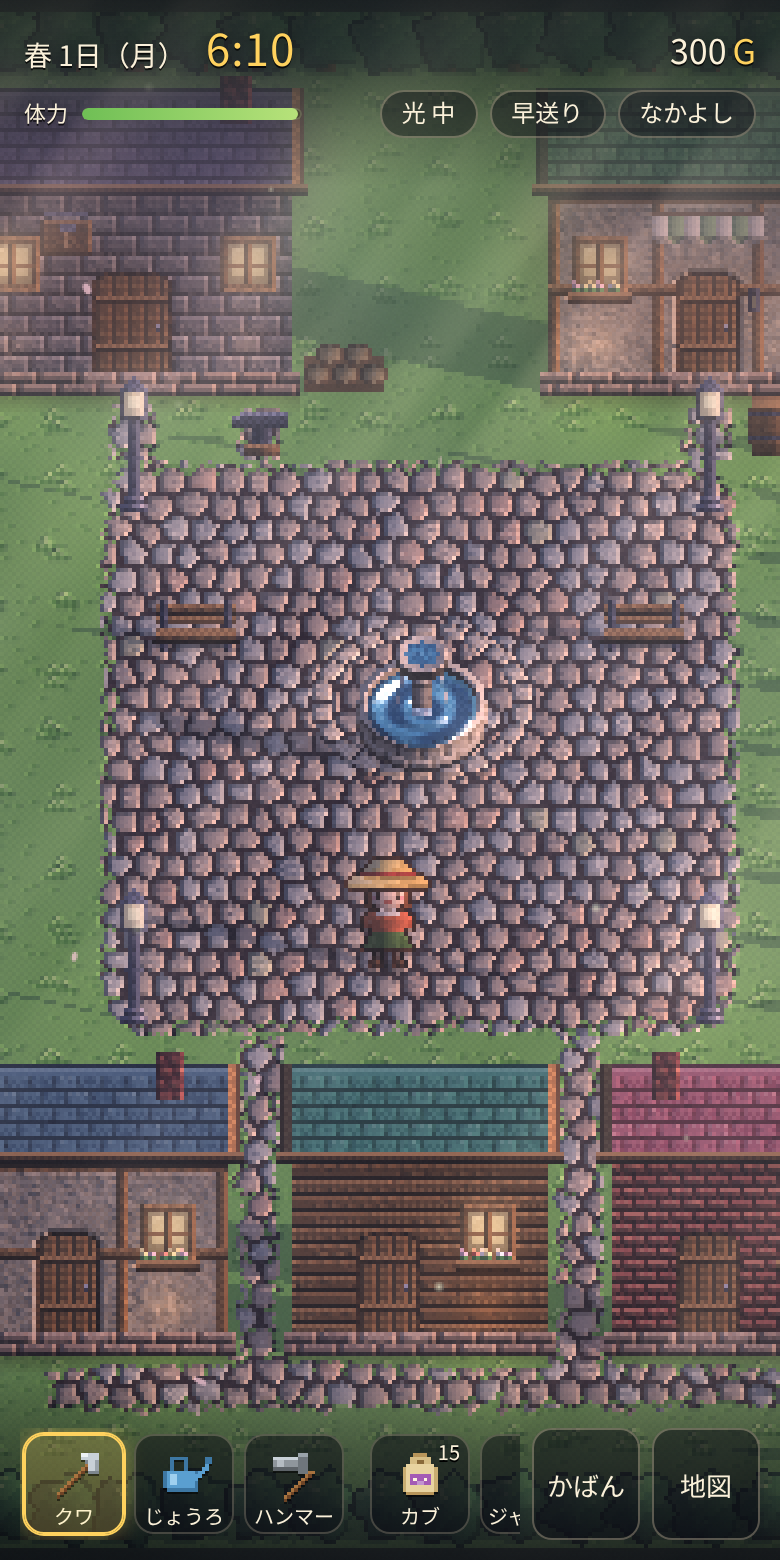
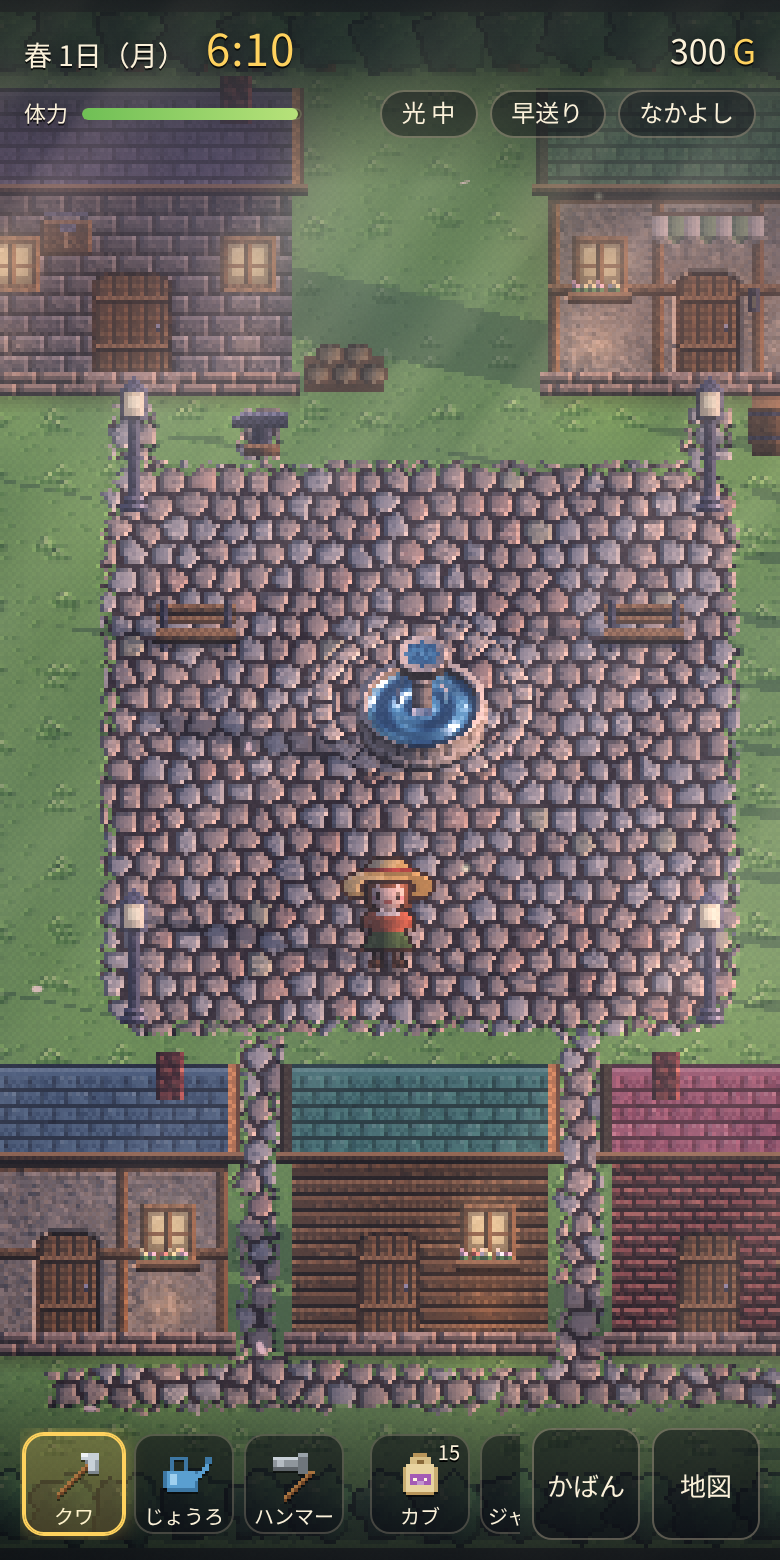
麦わら帽子のつばをアーチに：外へたれて少しうしろに傾く・前と横で目が見える高さを計算
Claude-Session: https://claude.ai/code/session_015wi4GiDohPeUmRqmvNTxLm

Changed region(s): [[0.4615, 0.4308, 0.6154, 0.4923], [0.4308, 0.5538, 0.5538, 0.5846]]

diff --git a/index.html b/index.html
@@ -296,12 +296,12 @@ const CHARS={
     legs:[[".......oso......",".......oSo......",".......offFo....",".......ooooo...."],["......oso.oso...",".....oso...oSo..",".....offo..offFo",".....oooo..ooooo"],["......oSo.oso...",".....oso...oso..",".....offo..offFo",".....oooo..ooooo"]]},
   },
   // 着せかえの部品：絵の枠（横24×たて36・体のまわりに横4・上4のゆとり）に y 段目から重ねる。'.' はすける。c＝ふくらみの丸 [x,y,半径]
-  // 麦わら帽子は tools/hat3d.py で立体から計算したドット（ふくらみは頭を少しふくらませた形・つばは水平でふちがたれる・人と同じ真正面から見る）
+  // 麦わら帽子は tools/hat3d.py で立体から計算したドット（ふくらみは頭に沿う形・つばは外へたれて少しうしろに傾く＝前から見るとアーチ・人と同じ真正面から見る）
   items:{
    straw:{name:"麦わら帽子",views:{
-    front:{y:8,c:[12.0,  15.2,  7.1],rows:["........oooooooo........",".......ouuqqqqqQo.......","......ouuuqqqqqQQo......",".....ouuqqqqqQQQQQo.....","...oobbbbbbbbbBBBBBoo...","..ovvvHHHHjjjjjjjjjHHo..",".ovvvvvvhhhhhhhHHHHHHHo.",".ohhhhhhhhhHHHHHHjjjjjo.","..oooooooooooooooooooo.."]},
-    back:{y:8,c:[12.0,  15.2,  7.1],rows:["........oooooooo........",".......ouuqqqqqQo.......","......ouuuqqqqqQQo......",".....ouuqqqqqQQQQQo.....","...oobbbbbbbBbBBBBBoo...","..ovvHHHHHjjbBjjjjjHHo..",".ovvvvvvhhhhbBhHHHHHHHo.",".ohhhhhhhhhHbBHHHHHHHjo.","..oooooooooobBoooooooo..","............oBo.........",".............o.........."]},
-    side:{y:8,c:[12.0,  15.2,  7.1],rows:["........oooooooo........",".......ouuqqqqqQo.......","......ouuuqqqqqQQo......",".....ouuqqqqqQQQQQo.....","...ooBbbbbbbbbBBBBBoo...","..ovvbBHHHjjjjjjjjjHHo..",".ovvbBvvhhhhhhhHHHHHHHo.",".ohhbBhhhhhHHHHHHHjHHjo.","..oobBoooooooooooooooo..","....oBo.................",".....o.................."]},
+    front:{y:8,c:[12.0,  15.2,  7.1],rows:["........oooooooo........",".......ouuuqqqqQo.......","......ouuuqqqqQQQo......","....oobbbbbbbbbBBBoo....","..oovvHHHHHjjjjjjjHHoo..",".ovhhhhhhhhHHHHHHjjjjHo.","ohhhhhoooooooooooojjjjjo","ohhhho............ojjjjo","ohhhho............ojjjjo",".oHHHjo..........ojjjjo.","..oooo............oooo.."]},
+    back:{y:8,c:[12.0,  15.2,  7.1],rows:["........oooooooo........",".......ouuuqqqqQo.......","......ouuuqqqqqQQo......","....oouuqqqqqqQQQQoo....","..oovbbbqqqqQQQQBBBhoo..",".ovvvbbbbbbbBBBBBBHhHHo.","ovvvvhhhHHHHbBHHHHHHHHHo","ovvvvvhhhhhhbBhHHHHHHHjo","ohhhhhhhhhhhbBHHHHHjjjjo",".ohhhHHHhHHjbBjjjjjjjjo.","..ooooooHHHjjBjjoooooo..","........oooooooo........"]},
+    side:{y:8,c:[12.0,  15.2,  7.1],rows:[".........ooooooo........",".......oouuqqqqQoo......","......ouuuqqqqQQQQo.....",".....ouuuqqqqbbBBBBoooo.","....ouubbbbbbbHHHHHhhjjo","...oBbbbhhhHHHhhhhjjjjjo","..ovbBhhvvhhhhhHjjjjjoo.",".ovbBvvvHHHHHHHHjjooo...","ovvbBhhHHHHHHHoooo......","ohhbBhhHoooooo..........","ohhoBooo................",".oo.o..................."]},
    }},
   },
  },

diff --git a/src/data/chars.js b/src/data/chars.js
@@ -16,12 +16,12 @@ const CHARS={
     legs:[[".......oso......",".......oSo......",".......offFo....",".......ooooo...."],["......oso.oso...",".....oso...oSo..",".....offo..offFo",".....oooo..ooooo"],["......oSo.oso...",".....oso...oso..",".....offo..offFo",".....oooo..ooooo"]]},
   },
   // 着せかえの部品：絵の枠（横24×たて36・体のまわりに横4・上4のゆとり）に y 段目から重ねる。'.' はすける。c＝ふくらみの丸 [x,y,半径]
-  // 麦わら帽子は tools/hat3d.py で立体から計算したドット（ふくらみは頭を少しふくらませた形・つばは水平でふちがたれる・人と同じ真正面から見る）
+  // 麦わら帽子は tools/hat3d.py で立体から計算したドット（ふくらみは頭に沿う形・つばは外へたれて少しうしろに傾く＝前から見るとアーチ・人と同じ真正面から見る）
   items:{
    straw:{name:"麦わら帽子",views:{
-    front:{y:8,c:[12.0,  15.2,  7.1],rows:["........oooooooo........",".......ouuqqqqqQo.......","......ouuuqqqqqQQo......",".....ouuqqqqqQQQQQo.....","...oobbbbbbbbbBBBBBoo...","..ovvvHHHHjjjjjjjjjHHo..",".ovvvvvvhhhhhhhHHHHHHHo.",".ohhhhhhhhhHHHHHHjjjjjo.","..oooooooooooooooooooo.."]},
-    back:{y:8,c:[12.0,  15.2,  7.1],rows:["........oooooooo........",".......ouuqqqqqQo.......","......ouuuqqqqqQQo......",".....ouuqqqqqQQQQQo.....","...oobbbbbbbBbBBBBBoo...","..ovvHHHHHjjbBjjjjjHHo..",".ovvvvvvhhhhbBhHHHHHHHo.",".ohhhhhhhhhHbBHHHHHHHjo.","..oooooooooobBoooooooo..","............oBo.........",".............o.........."]},
-    side:{y:8,c:[12.0,  15.2,  7.1],rows:["........oooooooo........",".......ouuqqqqqQo.......","......ouuuqqqqqQQo......",".....ouuqqqqqQQQQQo.....","...ooBbbbbbbbbBBBBBoo...","..ovvbBHHHjjjjjjjjjHHo..",".ovvbBvvhhhhhhhHHHHHHHo.",".ohhbBhhhhhHHHHHHHjHHjo.","..oobBoooooooooooooooo..","....oBo.................",".....o.................."]},
+    front:{y:8,c:[12.0,  15.2,  7.1],rows:["........oooooooo........",".......ouuuqqqqQo.......","......ouuuqqqqQQQo......","....oobbbbbbbbbBBBoo....","..oovvHHHHHjjjjjjjHHoo..",".ovhhhhhhhhHHHHHHjjjjHo.","ohhhhhoooooooooooojjjjjo","ohhhho............ojjjjo","ohhhho............ojjjjo",".oHHHjo..........ojjjjo.","..oooo............oooo.."]},
+    back:{y:8,c:[12.0,  15.2,  7.1],rows:["........oooooooo........",".......ouuuqqqqQo.......","......ouuuqqqqqQQo......","....oouuqqqqqqQQQQoo....","..oovbbbqqqqQQQQBBBhoo..",".ovvvbbbbbbbBBBBBBHhHHo.","ovvvvhhhHHHHbBHHHHHHHHHo","ovvvvvhhhhhhbBhHHHHHHHjo","ohhhhhhhhhhhbBHHHHHjjjjo",".ohhhHHHhHHjbBjjjjjjjjo.","..ooooooHHHjjBjjoooooo..","........oooooooo........"]},
+    side:{y:8,c:[12.0,  15.2,  7.1],rows:[".........ooooooo........",".......oouuqqqqQoo......","......ouuuqqqqQQQQo.....",".....ouuuqqqqbbBBBBoooo.","....ouubbbbbbbHHHHHhhjjo","...oBbbbhhhHHHhhhhjjjjjo","..ovbBhhvvhhhhhHjjjjjoo.",".ovbBvvvHHHHHHHHjjooo...","ovvbBhhHHHHHHHoooo......","ohhbBhhHoooooo..........","ohhoBooo................",".oo.o..................."]},
    }},
   },
  },

diff --git a/tools/hat3d.py b/tools/hat3d.py
@@ -1,78 +1,118 @@
 # 麦わら帽子を立体で作って、向きごとにドットにする
 #   python3 tools/hat3d.py → hat3d.json → src/data/chars.js の items.straw へ
-# 考え方：ふくらみは「頭を少しだけふくらませた形」（頭と同じ中心のだ円体）。つばは水平の輪で、ふちが少したれる
-#   頭の絵（主人公の前向き）から決まる数字：頭の中心・髪のてっぺん・目の高さ。ほかは計算で決める
-import math,json,sys
+# 考え方（しょーくんの決まり）
+#   ・人は真正面から描いているので、帽子も真正面から見る（上から見下ろさない）
+#   ・ふくらみは「頭を少しだけふくらませた形」（頭と同じ中心のだ円体）で、頭に沿う
+#   ・つばは外へいくほどたれ、帽子は少しうしろに傾けてかぶる → 前から見ると、つばが顔をかこむアーチ（⌒）になる
+#   ・帽子のうしろ側が頭のかげにかくれる所は描かない（頭を立体でおいて、手前・奥をくらべる）
+#   頭の絵（主人公の前向き）から決まる数字：頭の中心・髪のてっぺん・目の高さ。つばの高さとふくらみの高さは計算で決める
+import math,json
 W,H=24,36                # 人の絵の枠（体16×32のまわりに横4・上4のゆとり）
 P=dict(
   CX=12.0,CY=15.2,       # 頭の中心（枠の中の位置）
+  HEAD=(6.3,6.0,5.8),    # 頭の半径（横・奥・たて）。帽子のうしろ側をかくすのに使う
   AH=7.1,                # ふくらみの横・奥の半径（頭の半分の幅＋ふちの厚み）
   TOP=9.3,               # ふくらみのてっぺんの高さ（髪のてっぺんの線にぴったり＝帽子の線は髪の1つ上）
-  LOW=15.95,             # つばのいちばん下が来る高さ（線は16段目＝目のすぐ上。目は17段目）
-  R=9.95,                # つばの外の半径（枠の幅いっぱい・ふくらみの約1.5倍）
-  DROOP=1.4,             # つばのふちのたれ
-  T=0.8,                 # つばの厚み（真正面から見ると、つばは厚みとたれの帯に見える）
-  ELEV=0,                # 見る角度（度）。人は真正面から描いているので、帽子も真正面（0度）から見る
+  LOW=15.95,             # 顔の前で、つばのいちばん下が来る高さ（線は16段目＝目のすぐ上。目は17段目）。前と横の両方で守る
+  FACE=3.5,              # 前向きで、顔の前とみなす幅（中心から左右）
+  SIDEFACE=(1.0,5.5),    # 横向きで、顔の前とみなす幅（中心から前へ。目は中心の3つ前）
+  R=10.9,                # つばの外の半径（枠の幅いっぱい）
+  DROOP=2.0,             # つばのたれ（外へいくほど強く）
+  T=0.8,                 # つばのふちの厚み
+  TILT=10,               # うしろへの傾き（度）。前のつばが上がり、横と後ろが下がる
+  FRONT=0.4,             # 前のつばのたれの割合（1＝まわりと同じ）。前だけ少なくして、つばが顔をかこむアーチ（⌒）に
   BAND=1.4,              # リボンの幅
 )
 def make(**kw):
-    p=dict(P,**kw);CX,CY,AH,R,D=p['CX'],p['CY'],p['AH'],p['R'],p['DROOP']
-    E=math.radians(p['ELEV']);sE,cE=math.sin(E),math.cos(E)
-    # てっぺんの高さから、ふくらみの縦の半径を計算（だ円体を斜め上から見たときの上の端）
-    CH=math.sqrt(max(1,((CY-p['TOP'])**2-(AH*sE)**2)/cE**2))
-    # つばのいちばん下（手前のふちの下）が LOW に来るように、つばの高さ（頭の中心から）を計算
-    T=p['T'];Z0=D+T+(CY+R*sE-p['LOW'])/cE
-    RC=AH*math.sqrt(max(0,1-(Z0/CH)**2))     # つばとふくらみのさかいめの半径
-    V=(0,cE,sE)
+    p=dict(P,**kw);CX,CY,AH,R,D,T=p['CX'],p['CY'],p['AH'],p['R'],p['DROOP'],p['T']
+    th=math.radians(p['TILT']);sT,cT=math.sin(th),math.cos(th)
+    # ふくらみのたての半径：傾けたときのいちばん上が TOP に来るように
+    CH=math.sqrt(max(1,((CY-p['TOP'])**2-(AH*sT)**2)/cT**2))
+    # つばの高さ：顔の前（横 FACE まで）のつばのふちの下が LOW に来るように
+    def dr(su):return D*(1-(1-p['FRONT'])*max(0,su)**2)   # 向きごとのたれ（su＝前むきの度合い）
     Lv=(-.55,.25,.8);ll=math.sqrt(sum(a*a for a in Lv));Lv=tuple(a/ll for a in Lv)  # 光は左上手前
     def norm(v):l=math.sqrt(sum(a*a for a in v)) or 1;return tuple(a/l for a in v)
-    def turn(p,face):
-        x,y,z=p
+    def tilt(q):x,y,z=q;return(x,y*cT-z*sT,z*cT+y*sT)    # 前（+y）を上げる
+    def turn(q,face):
+        x,y,z=q
         if face=='back':return(-x,-y,z)
         if face=='side':return(y,-x,z)       # 顔を東（右）へ
         return(x,y,z)
-    def scr(q):return CX+q[0],CY+q[1]*sE-q[2]*cE,q[1]*cE+q[2]*sE
+    def scr(q):return CX+q[0],CY-q[2],q[1]   # 真正面から見る：横・たて・手前
+    hx,hy,hz=p['HEAD']
+    def hidden(Q,face):                      # 頭のうしろにかくれる点か
+        a,b=(hy,hx) if face=='side' else (hx,hy);e=1-(Q[0]/a)**2-(Q[2]/hz)**2
+        return e>0 and Q[1]<b*math.sqrt(e)
+    def lowest(Z0,face,X0,X1):               # 顔の前（横 X0〜X1）で見えるつばのいちばん下
+        rc=AH*math.sqrt(max(0,1-(Z0/CH)**2));m=-99;r=rc
+        while r<=R+1e-9:
+            t=(r-rc)/(R-rc);n=int(2*math.pi*r/0.3)+1
+            for i in range(n):
+                u=2*math.pi*i/n;z=Z0-dr(math.sin(u))*t*t-(T if r>R-0.2 else 0)
+                Q=turn(tilt((r*math.cos(u),r*math.sin(u),z)),face)
+                if X0<=Q[0]<=X1 and not hidden(Q,face):m=max(m,CY-Q[2])
+            r+=0.25
+        return m
+    # つばの高さ：前と横の両方で、顔の前のつばのいちばん下が LOW に来るように（いちばん下がる所で合わせる）
+    F=p['FACE'];lo,hi=-2.0,CH-0.5
+    for _ in range(22):
+        Z0=(lo+hi)/2
+        if max(lowest(Z0,'front',-F,F),lowest(Z0,'side',*p['SIDEFACE']))>p['LOW']:lo=Z0
+        else:hi=Z0
+    Z0=hi
+    RC=AH*math.sqrt(max(0,1-(Z0/CH)**2))     # つばとふくらみのさかいめの半径
     def render(face):
         buf={}
-        def plot(q,n,kind):
-            Q=turn(q,face);N=norm(turn(n,face));xs,ys,d=scr(Q);k=(int(math.floor(xs)),int(math.floor(ys)))
+        def put(Q,N,kind):
+            xs,ys,d=scr(Q);k=(int(math.floor(xs)),int(math.floor(ys)))
             if 0<=k[0]<W and 0<=k[1]<H and(k not in buf or d>buf[k][0]):buf[k]=(d,N,kind)
+        def plot(q,n,kind):put(turn(tilt(q),face),norm(turn(tilt(n),face)),kind)
         st=0.03
+        # 頭（帽子をかくすだけ・描かない）
+        for i in range(int(2*math.pi/st)+1):
+            u=i*st;j=0
+            while -math.pi/2+j*st<=math.pi/2:
+                v=-math.pi/2+j*st;q=(hx*math.cos(v)*math.cos(u),hy*math.cos(v)*math.sin(u),hz*math.sin(v))
+                put(turn(q,face),(0,0,1),'head');j+=1
         v0=math.asin(min(1,Z0/CH))
         for i in range(int(2*math.pi/st)+1):     # ふくらみ（つばより上だけ）とリボン
             u=i*st;j=0
             while v0+j*st<=math.pi/2:
                 v=v0+j*st;x=AH*math.cos(v)*math.cos(u);y=AH*math.cos(v)*math.sin(u);z=CH*math.sin(v)
                 plot((x,y,z),(x/AH**2,y/AH**2,z/CH**2),'band' if z<Z0+p['BAND'] else 'crown');j+=1
-        r=RC                                    # つば（輪・ふちが少したれる）
+        r=RC                                    # つば（外へいくほどたれる）
         while r<=R:
-            t=(r-RC)/(R-RC);z=Z0-D*t*t;dz=-2*D*t/(R-RC)
+            t=(r-RC)/(R-RC)
             for i in range(int(2*math.pi*r/0.2)+1):
-                u=i*0.2/r;plot((r*math.cos(u),r*math.sin(u),z),(-dz*math.cos(u),-dz*math.sin(u),1),'brim')
+                u=i*0.2/r;Du=dr(math.sin(u));z=Z0-Du*t*t;dz=-2*Du*t/(R-RC)
+                plot((r*math.cos(u),r*math.sin(u),z),(-dz*math.cos(u),-dz*math.sin(u),1),'brim')
             r+=0.06
         h=0                                     # つばのふち（外の面・厚みのぶん）
         while h<=T:
             for i in range(int(2*math.pi*R/0.2)+1):
-                u=i*0.2/R;plot((R*math.cos(u),R*math.sin(u),Z0-D-h),(math.cos(u),math.sin(u),.35),'rim')
+                u=i*0.2/R;plot((R*math.cos(u),R*math.sin(u),Z0-dr(math.sin(u))-h),(math.cos(u),math.sin(u),0),'rim')
             h+=0.1
         grid=[['.']*W for _ in range(H)];kind={}
         for (x,y),(d,N,k) in buf.items():
+            if k=='head':kind[(x,y)]=k;continue  # 頭が手前＝帽子はかくれる（体の絵がそのまま見える）
             lam=max(0,sum(a*b for a,b in zip(N,Lv)))
             if k=='brim':ch='v' if lam>.9 else 'h' if lam>.66 else 'H' if lam>.3 else 'j'
-            elif k=='rim':ch='h' if lam>.55 else 'H' if lam>.2 else 'j'
+            elif k=='rim':ch='h' if lam>.4 else 'H' if lam>.12 else 'j'
             elif k=='band':ch='b' if lam>.45 else 'B'
             else:ch='u' if lam>.9 else 'q' if lam>.62 else 'Q' if lam>.2 else 'j'
             grid[y][x]=ch;kind[(x,y)]=k
-        # ふくらみの手前で、つばに落ちるかげ（さかいめ）
+        # ふくらみのすぐ下のつばに落ちるかげ（さかいめ）：1段だけ暗く
+        dark={'v':'h','h':'H','H':'j','j':'j'}
         for (x,y),k in list(kind.items()):
-            if k in('brim','rim') and kind.get((x,y-1)) in('crown','band') and buf[(x,y)][0]<buf[(x,y-1)][0]+3:grid[y][x]='H' if x<CX-2 else 'j'
+            if k in('brim','rim') and kind.get((x,y-1)) in('crown','band'):grid[y][x]=dark[grid[y][x]]
         # リボンのたれ：うしろの結び目から下へ（後ろと横で見える）
         if face in('back','side'):
-            ax,ay,_=scr(turn((0,-RC,Z0+1.0),face));ax,ay=int(math.floor(ax)),int(math.floor(ay))   # 結び目はリボンの上
+            ax,ay,_=scr(turn(tilt((0,-RC,Z0+1.0)),face));ax,ay=int(math.floor(ax)),int(math.floor(ay))   # 結び目はリボンの上
             tl={'back':[(0,0,'B'),(0,1,'b'),(0,2,'b'),(0,3,'b'),(0,4,'b'),(1,1,'B'),(1,2,'B'),(1,3,'B'),(1,4,'B'),(1,5,'B')],
                 'side':[(0,0,'B'),(0,1,'b'),(-1,2,'b'),(-1,3,'b'),(-1,4,'b'),(1,1,'B'),(0,2,'B'),(0,3,'B'),(0,4,'B'),(0,5,'B')]}[face]
             for dx,dy,ch in tl:
-                if 0<=ax+dx<W and 0<=ay+dy<H:grid[ay+dy][ax+dx]=ch
+                if 0<=ax+dx<W and 0<=ay+dy<H:grid[ay+dy][ax+dx]=ch;kind[(ax+dx,ay+dy)]='band'
+        # 外の線（帽子のまわり。顔の上に来るつばのふちの下にも引く）
         out=[(x,y) for y in range(H) for x in range(W) if grid[y][x]=='.' and any(0<=x+a<W and 0<=y+b<H and grid[y+b][x+a]!='.' for a,b in((1,0),(-1,0),(0,1),(0,-1)))]
         for x,y in out:grid[y][x]='o'
         rows=[''.join(r) for r in grid]

diff --git a/docs/MAP.md b/docs/MAP.md
@@ -49,7 +49,7 @@
 
 ## ほか
 - art-samples/hikari.html … 光の見本（1ファイル・ゲームとは別）
-- tools/hat3d.py … 麦わら帽子を立体から向きごとのドットにする道具。ふくらみは頭を少しふくらませた形（頭と同じ中心）、つばは水平でふちがたれる。人と同じ真正面から見る。髪のてっぺん・目の高さから大きさを計算。新しい帽子もこれで作る
+- tools/hat3d.py … 麦わら帽子を立体から向きごとのドットにする道具。ふくらみは頭に沿う形（頭と同じ中心）、つばは外へいくほどたれ、帽子は少しうしろに傾く（前から見るとつばが顔をかこむアーチ）。人と同じ真正面から見る。前と横で目が見える高さにつばを計算。新しい帽子もこれで作る
 - tools/greenkey.py・tools/import_single.py … Codex の絵の緑を抜く道具
 - art-requests/ … Codex への絵の依頼書（AGENTS.md の決まり）
 - index.html … 自動で作るファイル。読まない・手で直さない
